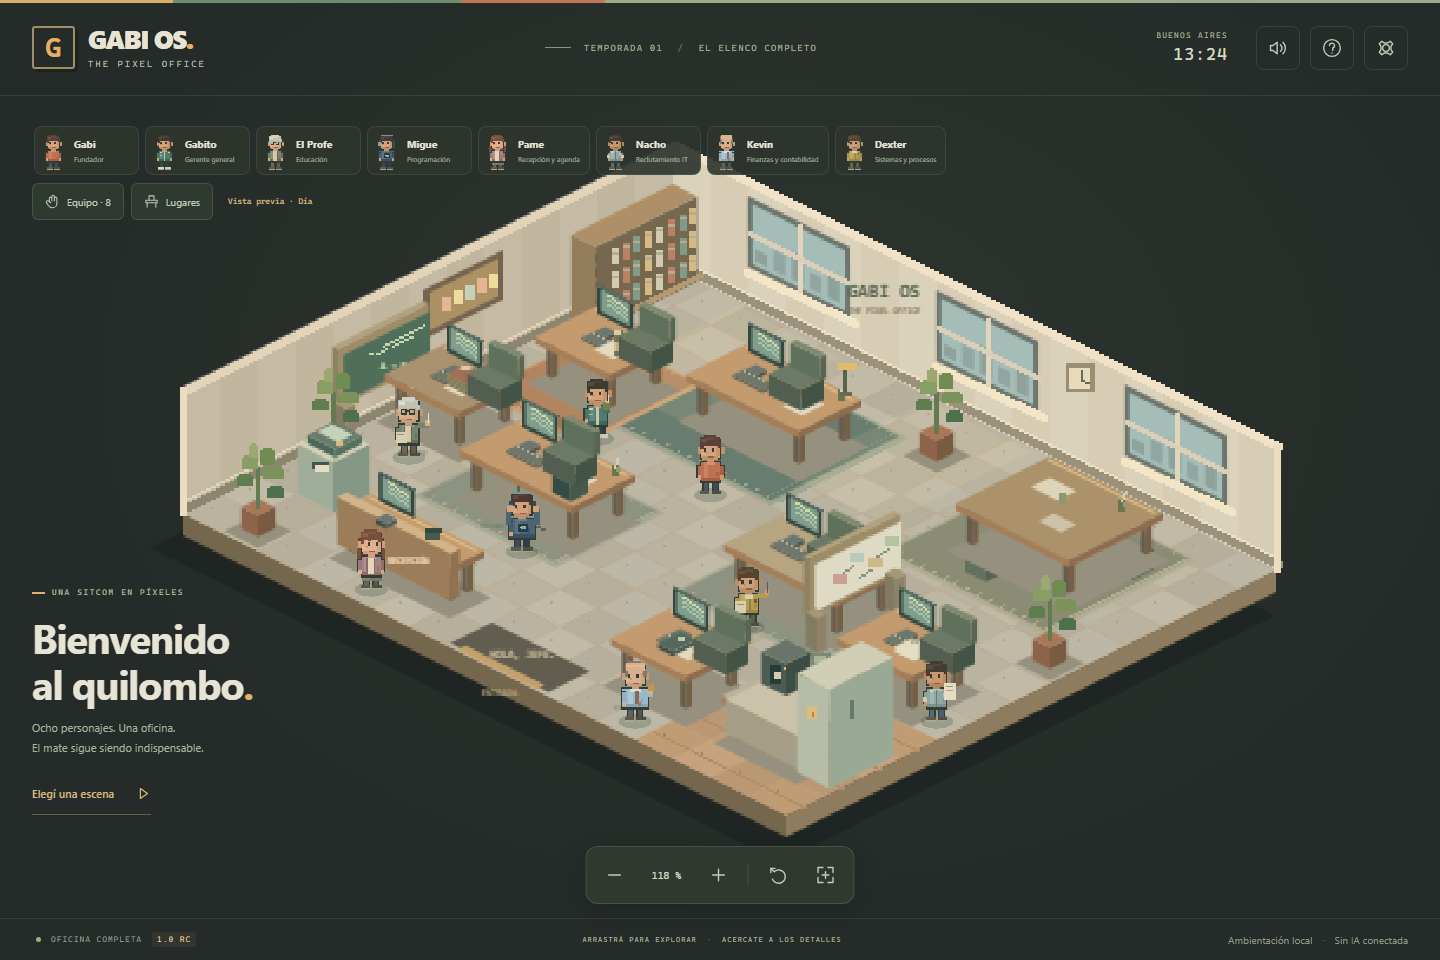
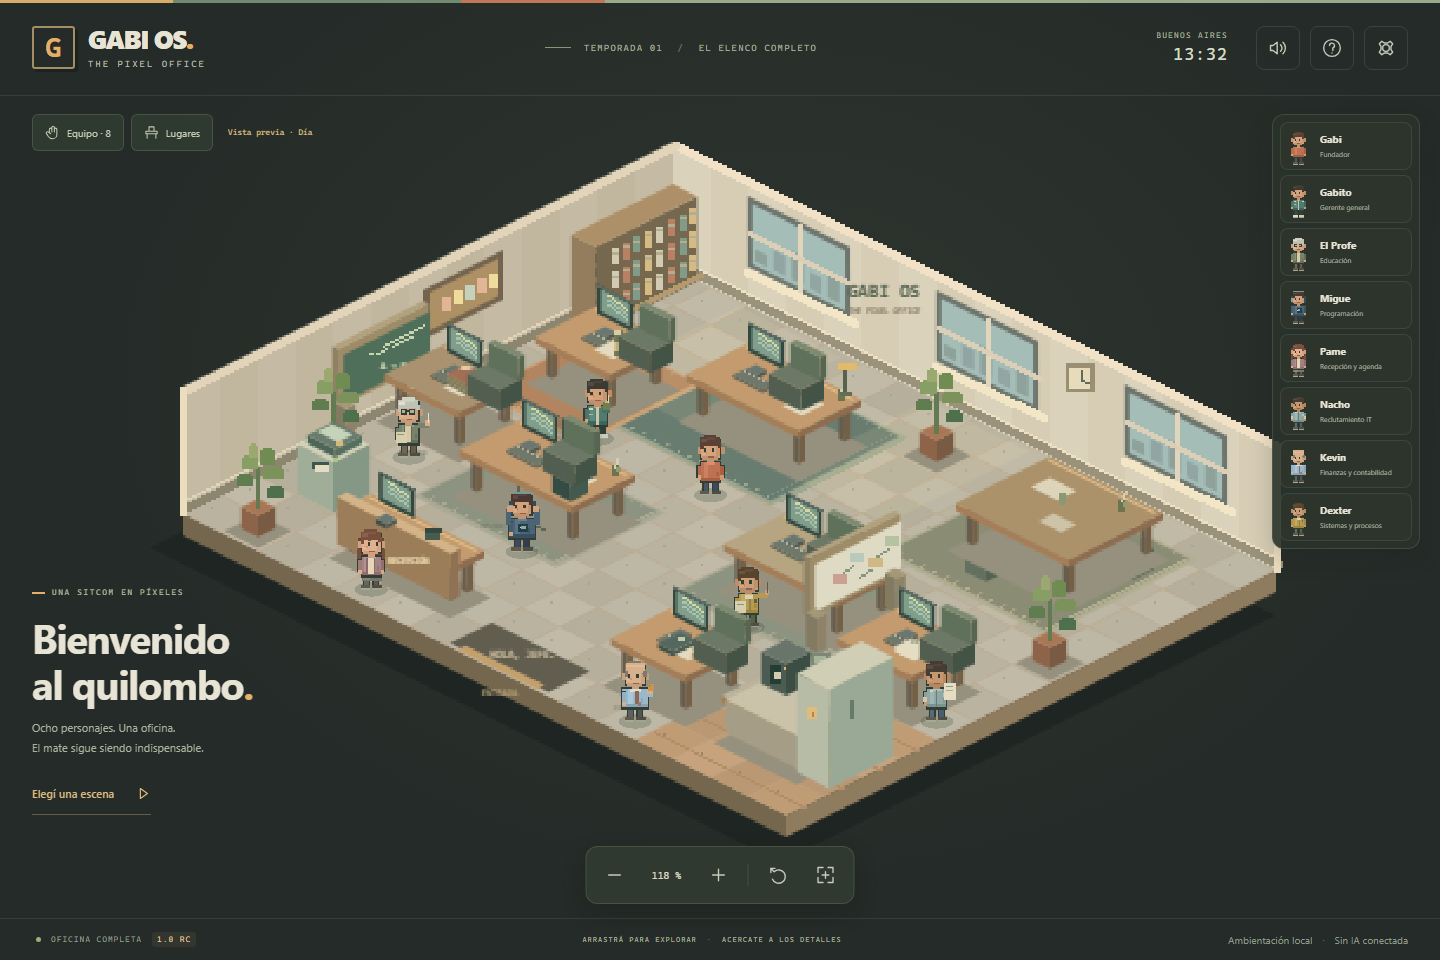
Move character selection to a vertical rail on the right

diff --git a/src/ui/OfficeUI.ts b/src/ui/OfficeUI.ts
@@ -12,7 +12,7 @@ export function mountInterface(initial:Preferences){
   let toastTimer:ReturnType<typeof setTimeout>,bubbleTimer:ReturnType<typeof setTimeout>,sceneTimer:ReturnType<typeof setTimeout>;
   let focusBeforePanel:HTMLElement|null=null,sceneId:SceneId|null=null,sceneStep=-1,automatic=true;
   const audio=new OfficeAudio(prefs),app=document.querySelector<HTMLDivElement>('#app')!;
-  const roster=()=>characterIds.map(id=>`<button class="cast-chip requires-office" data-select="${id}" aria-label="Conocer a ${cast[id].name}" disabled><img class="pixel" data-portrait="${id}" src="${portrait(id,prefs.appearance)}" alt=""><span>${cast[id].name}<small>${cast[id].role}</small></span></button>`).join('');
+  const roster=()=>characterIds.map(id=>`<button class="cast-chip requires-office" data-select="${id}" aria-label="Conocer a ${cast[id].name}" aria-pressed="false" title="${cast[id].name} · ${cast[id].role}" disabled><img class="pixel" data-portrait="${id}" src="${portrait(id,prefs.appearance)}" alt=""><span>${cast[id].name}<small>${cast[id].role}</small></span></button>`).join('');
   app.innerHTML=`
     <header class="masthead"><a class="brand" href="./" aria-label="GABI OS, volver al inicio"><span class="brand-symbol" aria-hidden="true">G</span><span><strong>GABI OS<span class="brand-dot">.</span></strong><span class="brand-sub">THE PIXEL OFFICE</span></span></a><div class="episode"><span class="episode-line"></span><span>TEMPORADA 01 <b>/</b> EL ELENCO COMPLETO</span></div><div class="header-right"><div class="local-time"><span>BUENOS AIRES</span><strong id="clock">--:--</strong></div><button class="square" id="audio-toggle" aria-label="Activar audio" aria-pressed="false" title="Audio apagado">${icon('volume')}</button><button class="square" id="help" aria-label="Cómo explorar">${icon('help')}</button><button class="square" id="settings" aria-label="Configuración">${icon('settings')}</button></div></header>
     <main id="world" aria-label="The Pixel Office"><div id="loading"><span class="loading-pixel"></span>Abriendo la oficina…</div></main>
@@ -47,6 +47,7 @@ export function mountInterface(initial:Preferences){
   function openPanel(id:OfficeSelection){
     focusBeforePanel=document.activeElement instanceof HTMLElement?document.activeElement:null;
     selected=id;$('#character-panel').hidden=false;document.body.classList.add('panel-open');
+    app.querySelectorAll<HTMLButtonElement>('.cast-chip').forEach(button=>button.setAttribute('aria-pressed',String(button.dataset.select===id)));
     if(isCharacter(id)){
       const c=cast[id];
       $('#panel-content').innerHTML=`<div class="eyebrow">${c.tag}</div><div class="profile"><div class="portrait-box ${id}"><img class="pixel" data-portrait="${id}" src="${portrait(id,prefs.appearance)}" alt="Sprite de ${c.name}"></div><div><h2 id="panel-title">${c.name}</h2><p>${c.role}</p><span class="mini-tag">PERSONAJE · AMBIENTACIÓN</span></div></div><p class="panel-description">${c.description}</p><div class="action-grid">${actionButton('wave','Saludar')}${actionButton('mate','Tomar mate','cup')}${actionButton('tour','Dar una vuelta','arrow')}${actionButton('work','Ir al escritorio','desk')}${actionButton('specialty',c.specialty,'play')}${actionButton(id==='pame'?'look':'react',id==='pame'?'Mirar a cámara':'Reaccionar','sun')}</div><button class="wide-action" data-action="coffee">Una pausa en la cafetería ${icon('cup')}</button><button class="wide-action follow-action" id="follow-selected">${icon('follow')} Seguir con la cámara</button><p class="panel-note">${id==='gabi'?'Tu avatar no emite diálogos en tu nombre. Su aspecto es configurable.':'Rutinas y diálogos ficticios. Este especialista no está conectado a un agente de IA.'}</p><button class="text-button" id="profile-extra">${id==='gabi'?'Personalizá tu avatar':'Ir al confesionario'} →</button>`;

diff --git a/src/interaction.css b/src/interaction.css
@@ -5,3 +5,47 @@
 .scene-actions button{min-height:44px}
 @media(max-width:600px){.header-right>.square{width:44px;height:44px}}
 @media(max-width:380px){.header-right .local-time{display:none}}
+
+/* Character selection is a vertical rail on the right; the office retains its full canvas. */
+.cast{
+  left:auto;right:20px;top:114px;bottom:auto;
+  width:148px;max-width:148px;height:max-content;max-height:calc(100dvh - 230px);
+  flex-direction:column;align-items:stretch;gap:5px;padding:7px;
+  overflow-x:hidden;overflow-y:auto;overscroll-behavior:contain;touch-action:pan-y;
+  pointer-events:auto;scrollbar-width:thin;scrollbar-color:#7b8b6b transparent;
+  background:#29332be8;border:1px solid #acb68c30;border-radius:12px;
+  box-shadow:0 8px 24px #131c1733;scroll-padding-block:8px;z-index:9;
+}
+.cast-chip{width:100%;min-height:48px;padding:3px 7px 3px 1px;gap:5px}
+.cast-chip img{width:33px;height:39px}
+.cast-chip span{min-width:0;font-size:10px}
+.cast-chip small{max-width:none;font-size:7px;line-height:1.5}
+.cast-chip[aria-pressed=true]{border-color:#d8b779a0;background:#49513a;color:#f1d3a1}
+.panel{right:184px}
+.explore-tools{top:114px}
+@media(max-width:1150px){
+  .cast{right:16px;width:138px;max-width:138px}
+  .panel{right:168px}
+}
+@media(max-width:800px){
+  .cast{top:104px;right:12px;width:66px;max-width:66px;padding:5px;gap:4px;max-height:calc(100dvh - 242px)}
+  .cast-chip{flex-direction:column;justify-content:center;min-height:48px;padding:2px;gap:0;text-align:center;border-radius:6px}
+  .cast-chip img{width:26px;height:29px}
+  .cast-chip span{font-size:8px;line-height:12px;min-width:0}
+  .cast-chip small{display:none}
+  .panel{right:90px}
+  .explore-tools{top:104px;right:90px}
+  .explore-tools .small-pill{flex-shrink:0}
+  .explore-tools .phase-badge{flex:1;min-width:0;max-width:none}
+}
+@media(max-width:600px){
+  .cast{top:94px;right:8px;width:64px;max-width:64px}
+  .panel{left:12px;right:82px;width:auto}
+  .scene-player{left:12px;right:82px;width:auto}
+  .explore-tools{top:94px;left:12px;right:82px}
+}
+@media(max-height:600px) and (min-width:601px){
+  .cast{top:78px;max-height:calc(100dvh - 184px)}
+  .explore-tools{top:78px}
+  .panel{top:78px}
+}

diff --git a/README.md b/README.md
@@ -28,7 +28,7 @@ Abrir **http://localhost:4173/gabi-os/**. `dist/` es el sitio estático listo pa
 ## Probar la oficina completa
 
 1. Ver la oficina completa; acercarse con rueda, pinza o botones. Arrastrar con mouse/un dedo. Restablecer vista con el botón de flecha circular o Inicio.
-2. Tocar un personaje o abrir **Equipo · 8**: Gabi, Gabito, El Profe, Migue, Pame, Nacho, Kevin y Dexter. Cada uno tiene una acción propia, además de saludar, mate, paseo y escritorio. En móvil la ficha se cierra al ejecutar para dejar ver la animación.
+2. Tocar un personaje, elegirlo en la **columna del borde derecho** o abrir **Equipo · 8**: Gabi, Gabito, El Profe, Migue, Pame, Nacho, Kevin y Dexter. La columna se desplaza verticalmente si falta altura; en móvil usa retratos y nombres compactos. Cada uno tiene una acción propia, además de saludar, mate, paseo y escritorio. En móvil la ficha se cierra al ejecutar para dejar ver la animación.
 3. Activar seguimiento desde una ficha. Arrastrar para dejar de seguir. Las escenas nunca cambian el encuadre por su cuenta.
 4. Abrir **Lugares** o tocar los objetos: escritorio de Gabi, sala, cafetería, pizarrón, fotocopiadora, recepción y termo. La bandeja/tablero, materias y agenda son demostraciones rotuladas. El cuadro de Boca es un motivo propio reservado, sin escudo oficial.
 5. Elegir una escena desde Lugares → Ver escenas. Ver a Migue y Dexter debatir, Gabito y Kevin discutir el café, o convocar una reunión de ocho. Pausar, avanzar, terminar u omitir. Los participantes se acercan por rutas; la cámara no se mueve por la escena. Cada especialista también tiene un confesionario propio.

diff --git a/docs/ESTADO_VERSION_1.0.md b/docs/ESTADO_VERSION_1.0.md
@@ -4,6 +4,8 @@ Ampliación funcional completa solicitada por el usuario. Referencia: Documento 
 
 ## Implementación
 
+Ajuste aprobado posteriormente por el usuario: selector del elenco en columna vertical sobre el borde derecho, con desplazamiento vertical cuando es necesario y fichas ubicadas a su izquierda. Esta preferencia posterior prevalece sobre la disposición del piloto.
+
 | Área | Entrega |
 | --- | --- |
 | Elenco | Gabi, Gabito, El Profe, Migue, Pame, Nacho, Kevin y Dexter con diseño original y ficha propia. |
